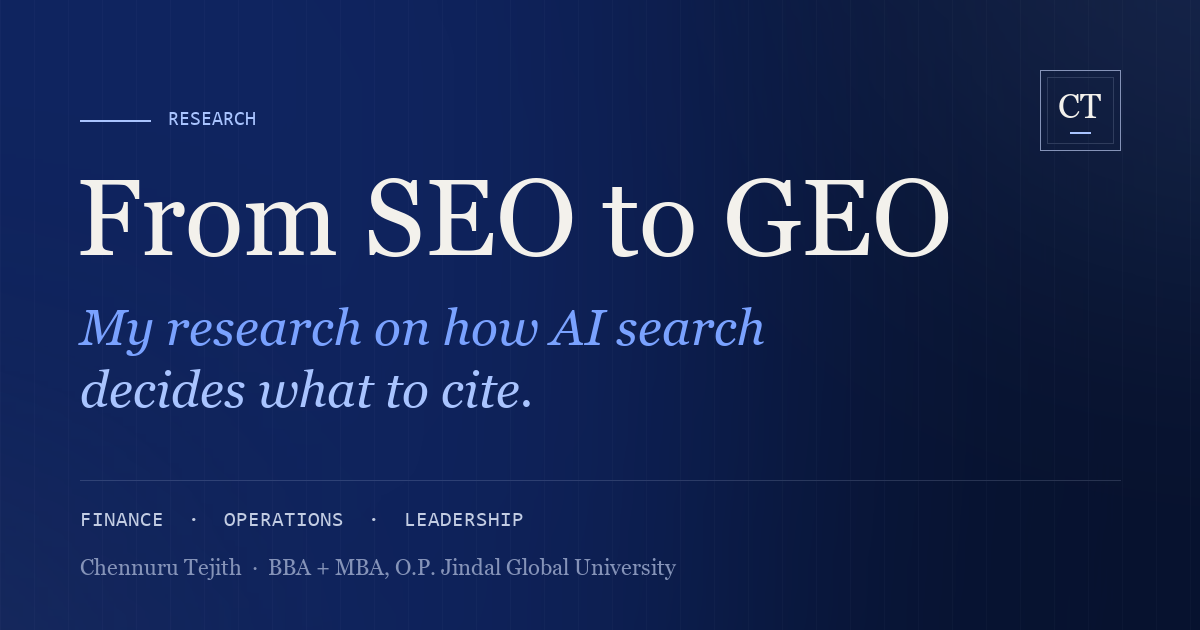
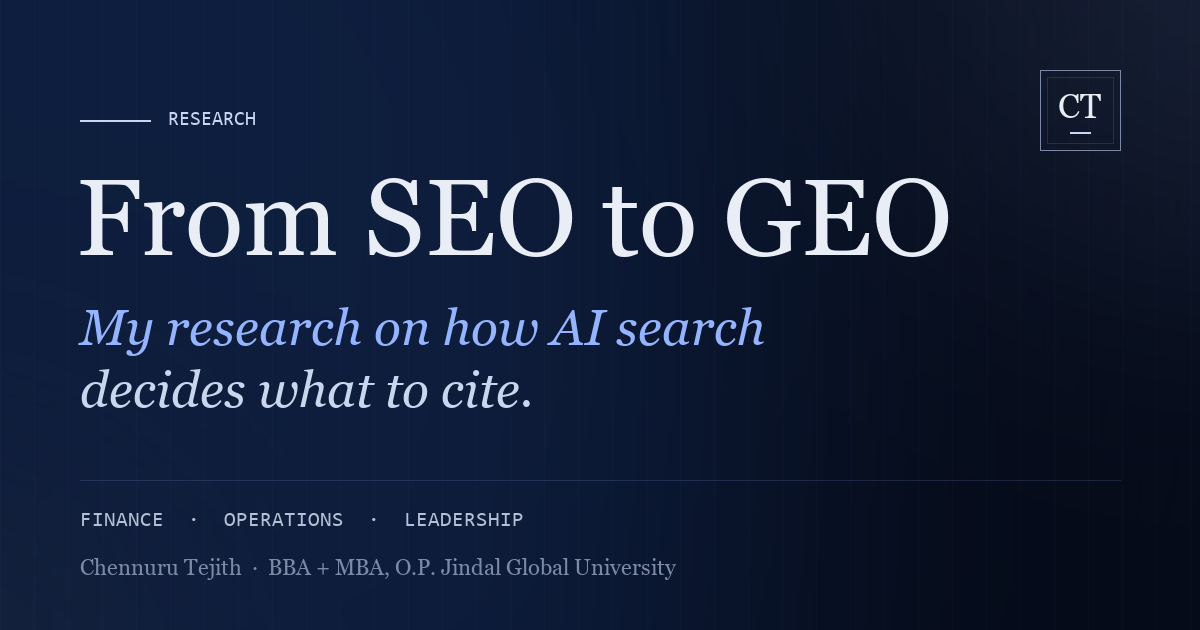
Deep midnight navy palette from dark-theme research: desaturated navy base, lighter navy surfaces for depth, off-white text, soft cornflower accent, saturated blue only on main buttons; all text passes WCAG AA

diff --git a/css/style.css b/css/style.css
@@ -7,29 +7,29 @@
 /* Sapphire · royal blue · ice · ivory */
 :root,
 [data-theme="dark"] {
-  --bg: #071331;
-  --bg-1: #0b1a40;
-  --bg-2: #102352;
-  --surface: #0b1a40;
-  --ink: #f3f1ec;
-  --ink-2: #c3cde3;
-  --ink-3: #8e9cc0;
-  --ink-4: #8593b8;
-  --muted: #8e9cc0;
-  --acc: #7aa2ff;
-  --acc-hi: #b4cbff;
-  --acc-dim: rgba(122, 162, 255, 0.1);
-  --clay: #a9c4ff;
-  --ok: #7fd8ea;
+  --bg: #050b1a;
+  --bg-1: #0a1328;
+  --bg-2: #0f1b36;
+  --surface: #0a1328;
+  --ink: #e9edf5;
+  --ink-2: #b6c0d4;
+  --ink-3: #8693ad;
+  --ink-4: #7d8aa6;
+  --muted: #8693ad;
+  --acc: #94b4ff;
+  --acc-hi: #c2d4ff;
+  --acc-dim: rgba(148, 180, 255, 0.1);
+  --clay: #c9d6ee;
+  --ok: #86d4e6;
   --ok-l: rgba(127, 216, 234, 0.1);
-  --line: rgba(214, 226, 255, 0.09);
-  --line-2: rgba(214, 226, 255, 0.17);
-  --line-3: rgba(214, 226, 255, 0.32);
-  --btn: #f3f1ec;
-  --btn-ink: #071331;
-  --land: #0d1d47;
-  --dotc: rgba(214, 226, 255, 0.26);
-  --stripe: rgba(214, 226, 255, 0.022);
+  --line: rgba(148, 176, 245, 0.09);
+  --line-2: rgba(148, 176, 245, 0.17);
+  --line-3: rgba(148, 176, 245, 0.32);
+  --btn: #e9edf5;
+  --btn-ink: #050b1a;
+  --land: #0c1730;
+  --dotc: rgba(148, 176, 245, 0.26);
+  --stripe: rgba(148, 176, 245, 0.022);
   --grain: 0.06;
   --shadow: 0 30px 60px -30px rgba(0, 0, 0, 0.75);
   /* legacy names used by scripts/markup */
@@ -742,12 +742,12 @@ body.resume-mode .hire { display: none !important; }
 .share-scrim { position: absolute; inset: 0; background: color-mix(in srgb, var(--bg) 75%, transparent); backdrop-filter: blur(8px); -webkit-backdrop-filter: blur(8px); animation: fade 0.4s; }
 .share-card { position: relative; width: min(440px, 100%); animation: panelIn 0.6s cubic-bezier(.16, 1, .3, 1); }
 .share-x { position: absolute; top: -52px; right: 0; }
-.sc { padding: 34px 32px; background: #071331; color: #f3f1ec; border: 1px solid rgba(214, 226, 255, 0.2); }
+.sc { padding: 34px 32px; background: #050b1a; color: #e9edf5; border: 1px solid rgba(148, 176, 245, 0.2); }
 .sc .logo-svg { width: 40px; height: 40px; color: #f1ece3; }
 .sc h3 { font: 400 40px/1 "Libre Caslon Display", "Times New Roman", serif; margin: 22px 0 8px; letter-spacing: 0; }
-.sc p { margin: 0; font: 400 10px "Geist Mono", monospace; letter-spacing: 0.18em; text-transform: uppercase; color: #8e9cc0; }
-.sc-row { display: grid; grid-template-columns: 1fr auto; gap: 20px; align-items: end; margin-top: 28px; padding-top: 22px; border-top: 1px solid rgba(214, 226, 255, 0.16); }
-.sc-row span { font-size: 13px; color: #c3cde3; line-height: 1.6; }
+.sc p { margin: 0; font: 400 10px "Geist Mono", monospace; letter-spacing: 0.18em; text-transform: uppercase; color: #8693ad; }
+.sc-row { display: grid; grid-template-columns: 1fr auto; gap: 20px; align-items: end; margin-top: 28px; padding-top: 22px; border-top: 1px solid rgba(148, 176, 245, 0.16); }
+.sc-row span { font-size: 13px; color: #b6c0d4; line-height: 1.6; }
 .sc-qr { width: 112px; height: 112px; background: #f1ece3; padding: 8px; }
 .sc-qr svg { width: 100%; height: 100%; display: block; }
 .share-actions { display: flex; flex-wrap: wrap; gap: 8px; margin-top: 14px; justify-content: center; }
@@ -816,7 +816,7 @@ body { background-color: var(--bg); }
 .crest-xl > span { font-size: 62px; margin-top: -10px; }
 .crest-xl::after { bottom: 26px; width: 34px; margin-left: -17px; height: 2px; }
 .logo .crest { margin-right: 4px; }
-.sc .crest { width: 52px; height: 52px; border-color: rgba(214, 226, 255, 0.45); }
+.sc .crest { width: 52px; height: 52px; border-color: rgba(148, 176, 245, 0.45); }
 .sc .crest > span { color: #f1ece3; font-size: 22px; }
 
 /* ink reveal on the name */
@@ -1052,7 +1052,7 @@ body { background-color: var(--bg); }
    intro, reading options
    ============================================================ */
 #story, #resume { zoom: var(--zoom, 1); }
-[data-contrast="high"] { --ink-2: #ece7de; --ink-3: #d6d0c6; --ink-4: #c4beb4; --line: rgba(214, 226, 255, 0.22); --line-2: rgba(214, 226, 255, 0.36); --line-3: rgba(214, 226, 255, 0.6); }
+[data-contrast="high"] { --ink-2: #ece7de; --ink-3: #d6d0c6; --ink-4: #c4beb4; --line: rgba(148, 176, 245, 0.22); --line-2: rgba(148, 176, 245, 0.36); --line-3: rgba(148, 176, 245, 0.6); }
 [data-theme="light"][data-contrast="high"] { --ink-2: #0a1a44; --ink-3: #2e2a24; --ink-4: #3a352d; --line: rgba(10, 26, 68, 0.24); --line-2: rgba(10, 26, 68, 0.4); --line-3: rgba(10, 26, 68, 0.65); }
 
 /* reading options */
@@ -1354,24 +1354,39 @@ body.touring .foot { padding-bottom: 150px; }
 .scrub .prog { margin-top: 34px; }
 
 /* ============================================================
-   Round 14: sapphire blue
+   Round 15: deep midnight navy
+   Dark-theme rules applied: a very dark desaturated base (not black),
+   depth from lighter surfaces, soft accent tones for text, and the
+   saturated brand blue kept for the main action only.
    ============================================================ */
-/* layered blue light: royal glow top right, deep indigo low left, sapphire pool in the middle */
+:root, [data-theme="dark"] {
+  --line: rgba(148, 176, 245, 0.10);
+  --line-2: rgba(148, 176, 245, 0.18);
+  --line-3: rgba(148, 176, 245, 0.32);
+  --dotc: rgba(148, 176, 245, 0.30);
+  --stripe: rgba(148, 176, 245, 0.022);
+  --brand: #3563e9;
+}
+[data-theme="light"] { --brand: #1d47c9; }
+/* quiet navy light, low saturation, so the page reads deep rather than bright */
 .backdrop { background:
-    radial-gradient(1100px 820px at 92% -14%, rgba(70, 120, 255, 0.22), transparent 62%),
-    radial-gradient(900px 700px at -12% 108%, rgba(64, 52, 190, 0.20), transparent 60%),
-    radial-gradient(1300px 900px at 35% 45%, rgba(26, 58, 156, 0.30), transparent 70%),
+    radial-gradient(1100px 800px at 90% -12%, rgba(53, 99, 233, 0.13), transparent 62%),
+    radial-gradient(900px 700px at -10% 108%, rgba(20, 43, 87, 0.55), transparent 62%),
+    radial-gradient(1300px 900px at 40% 40%, rgba(20, 43, 87, 0.35), transparent 72%),
     repeating-linear-gradient(90deg, var(--stripe) 0 1px, transparent 1px 34px),
-    var(--bg); }
+    var(--bg);
+  box-shadow: inset 0 0 300px rgba(0, 0, 0, 0.55); }
 [data-theme="light"] .backdrop { background:
-    radial-gradient(1100px 820px at 92% -14%, rgba(29, 71, 201, 0.10), transparent 62%),
-    radial-gradient(900px 700px at -12% 108%, rgba(64, 52, 190, 0.06), transparent 60%),
+    radial-gradient(1100px 800px at 90% -12%, rgba(29, 71, 201, 0.08), transparent 62%),
     repeating-linear-gradient(90deg, var(--stripe) 0 1px, transparent 1px 34px),
-    var(--bg); }
-/* the main call to action becomes solid royal blue */
-.btn-primary { background: linear-gradient(180deg, #4f7dff, #2f5fe8); color: #fff; box-shadow: 0 10px 30px -12px rgba(47, 95, 232, 0.7); }
-.btn-primary:hover { background: linear-gradient(180deg, #6690ff, #3b6bf0); color: #fff; }
-[data-theme="light"] .btn-primary { background: linear-gradient(180deg, #2a56d8, #1a3fb4); }
+    var(--bg); box-shadow: none; }
+/* the one saturated blue: the main call to action */
+.btn-primary { background: var(--brand); color: #fff; box-shadow: 0 10px 28px -14px rgba(53, 99, 233, 0.6); }
+.btn-primary:hover { background: #4a76f0; color: #fff; }
+[data-theme="light"] .btn-primary:hover { background: #2a56d8; }
 .hero h1.name .dot-c, .cta-card h2 .dot-c { color: var(--acc); }
 .kicker { color: var(--acc); }
-::selection { background: #4f7dff; color: #fff; }
+::selection { background: var(--brand); color: #fff; }
+/* raised surfaces are lighter navy, not shadows */
+.chat, .recon, .pit, .refreq, .gb-form, .proof.proof, .feat, .read-pop, .src-pop, .tour, .cite-card { background-color: var(--bg-1); }
+.bubble.ai, .slot:hover { background-color: var(--bg-2); }

diff --git a/profile.html b/profile.html
@@ -13,13 +13,13 @@
 <script type="application/ld+json">{"@context":"https://schema.org","@graph":[{"@type":"ProfilePage","name":"Chennuru Tejith, Portfolio","dateModified":"2026-10-10","mainEntity":{"@id":"#person"}},{"@type":"Person","@id":"#person","name":"Chennuru Tejith","alternateName":"Tejith Chennuru","description":"Chennuru Tejith is an Indian business student pursuing an integrated BBA (Hons.) + MBA at O.P. Jindal Global University (2024 to 2029, CGPA 7.9/8), from Hyderabad, with internship experience in operations at Round Table India, project management at Dr. Reddy's Laboratories Ltd. and finance at Ion Exchange India Ltd.","jobTitle":"Business Strategist in Training","image":"assets/crest-512.png","homeLocation":{"@type":"Place","name":"Hyderabad, Telangana, India"},"alumniOf":{"@type":"CollegeOrUniversity","name":"O.P. Jindal Global University","address":"Sonipat, Haryana, India"},"knowsLanguage":["English","Telugu","Hindi","French"],"knowsAbout":["Generative Engine Optimization","Financial Analysis","Cost Analysis","Budgeting","Bookkeeping","Financial Reporting","Data Interpretation","On-ground Monitoring","Budget Tracking","Sponsor Reporting","Vendor Verification","Cross-functional Coordination","Leadership","Institutional Governance","Policy Deliberation","Event Programming","Mentorship","Strategic Communication","Stakeholder Management","Partnership Development"],"hasCredential":[{"@type":"EducationalOccupationalCredential","name":"Excel Skills for Business: Intermediate I","recognizedBy":{"@type":"Organization","name":"Coursera · Macquarie University"}}],"award":["Batch Rank 3 and Certificate of Appreciation for Peer Support & Voluntary Contribution, JGU University Day. (2026)","Best Leader, Best All-Rounder and Rank 2 in IBM Batch, JGU University Day. (2025)","Certificate of Appreciation for volunteer leadership, JGU Alumni Day. (2025)","Letter of Appreciation for Exemplary Academic Performance. (2024)","Letter of Appreciation for the inauguration of India's First Constitution Museum & the National Convention on the Constitution of India. (2024)"],"hasOccupation":[{"@type":"Occupation","name":"Operations Intern","description":"Round Table India, Jun 2026 to Jul 2026 · Hyderabad"},{"@type":"Occupation","name":"Project Management Intern","description":"Dr. Reddy's Laboratories Ltd., Jun 2025 to Jul 2025 · Hyderabad"},{"@type":"Occupation","name":"Finance Intern","description":"Ion Exchange India Ltd., Dec 2024 to Jan 2025 · Hyderabad"}],"sameAs":["https://www.linkedin.com/in/chennuru-tejith","https://github.com/chennuru-tejith"]},{"@type":"FAQPage","mainEntity":[{"@type":"Question","name":"Can you lead people?","acceptedAnswer":{"@type":"Answer","text":"Yes. I directed programming for a 200+ member entrepreneurship club, I lead external outreach for the marketing club, and I was elected to a university committee."}},{"@type":"Question","name":"Why business and technology together?","acceptedAnswer":{"@type":"Answer","text":"I study business, but I like building the tools myself: a live outreach platform, AI-chat utilities and a stock-screening suite, all on my GitHub."}},{"@type":"Question","name":"What are you looking for?","acceptedAnswer":{"@type":"Answer","text":"An internship in finance, operations, consulting or marketing, in December to January or June to July, where I can own a real piece of work and be measured on the result."}}]}]}</script>
 <style>
 :root { color-scheme: dark; }
-body { margin: 0; background: #071331; color: #f3f1ec; font: 17px/1.7 "Libre Caslon Text", "Times New Roman", serif; }
+body { margin: 0; background: #050b1a; color: #e9edf5; font: 17px/1.7 "Libre Caslon Text", "Times New Roman", serif; }
 main { max-width: 760px; margin: 0 auto; padding: 64px 24px 80px; }
 h1 { font: 400 56px/1 "Libre Caslon Display", "Times New Roman", serif; margin: 0 0 18px; }
-h2 { font: 400 28px/1.15 "Libre Caslon Display", "Times New Roman", serif; margin: 44px 0 12px; padding-top: 22px; border-top: 1px solid rgba(214, 226, 255,.16); }
+h2 { font: 400 28px/1.15 "Libre Caslon Display", "Times New Roman", serif; margin: 44px 0 12px; padding-top: 22px; border-top: 1px solid rgba(148, 176, 245,.16); }
 h3 { font-size: 18px; margin: 18px 0 4px; }
-p, li { color: #c3cde3; } a { color: #7aa2ff; }
-.meta { font-size: 13px; color: #8e9cc0; }
+p, li { color: #b6c0d4; } a { color: #94b4ff; }
+.meta { font-size: 13px; color: #8693ad; }
 @media (prefers-color-scheme: light) { body { background: #f3f6fc; color: #0a1a44; } p, li { color: #2c3d6b; } a { color: #1d47c9; } .meta { color: #4d5d88; } h2 { border-color: rgba(10, 26, 68,.15); } }
 </style>
 </head>

diff --git a/build.js b/build.js
@@ -85,13 +85,13 @@ ${base ? `<link rel="canonical" href="${esc(abs("profile.html"))}" />` : ""}
 ${jsonld}
 <style>
 :root { color-scheme: dark; }
-body { margin: 0; background: #071331; color: #f3f1ec; font: 17px/1.7 "Libre Caslon Text", "Times New Roman", serif; }
+body { margin: 0; background: #050b1a; color: #e9edf5; font: 17px/1.7 "Libre Caslon Text", "Times New Roman", serif; }
 main { max-width: 760px; margin: 0 auto; padding: 64px 24px 80px; }
 h1 { font: 400 56px/1 "Libre Caslon Display", "Times New Roman", serif; margin: 0 0 18px; }
-h2 { font: 400 28px/1.15 "Libre Caslon Display", "Times New Roman", serif; margin: 44px 0 12px; padding-top: 22px; border-top: 1px solid rgba(214, 226, 255,.16); }
+h2 { font: 400 28px/1.15 "Libre Caslon Display", "Times New Roman", serif; margin: 44px 0 12px; padding-top: 22px; border-top: 1px solid rgba(148, 176, 245,.16); }
 h3 { font-size: 18px; margin: 18px 0 4px; }
-p, li { color: #c3cde3; } a { color: #7aa2ff; }
-.meta { font-size: 13px; color: #8e9cc0; }
+p, li { color: #b6c0d4; } a { color: #94b4ff; }
+.meta { font-size: 13px; color: #8693ad; }
 @media (prefers-color-scheme: light) { body { background: #f3f6fc; color: #0a1a44; } p, li { color: #2c3d6b; } a { color: #1d47c9; } .meta { color: #4d5d88; } h2 { border-color: rgba(10, 26, 68,.15); } }
 </style>
 </head>
@@ -194,8 +194,8 @@ ${base ? `<link rel="canonical" href="${esc(abs("press.html"))}" />` : ""}
 <link rel="icon" type="image/png" href="assets/favicon-64.png" />
 <link href="https://fonts.googleapis.com/css2?family=Libre+Caslon+Display&family=Libre+Caslon+Text:ital@0;1&display=swap" rel="stylesheet" />
 ${pageStyle(profile).replace("</style>", `.kit { display: grid; grid-template-columns: 160px 1fr; gap: 24px; align-items: center; }
-.kit img { width: 160px; height: 160px; border: 1px solid rgba(214, 226, 255,.2); }
-blockquote, pre { margin: 0; padding: 16px 18px; border-left: 2px solid #a9c4ff; background: rgba(214, 226, 255,.04); white-space: pre-wrap; font: inherit; }
+.kit img { width: 160px; height: 160px; border: 1px solid rgba(148, 176, 245,.2); }
+blockquote, pre { margin: 0; padding: 16px 18px; border-left: 2px solid #c9d6ee; background: rgba(148, 176, 245,.04); white-space: pre-wrap; font: inherit; }
 @media (max-width: 560px) { .kit { grid-template-columns: 1fr; } }
 </style>`)}
 </head>
@@ -231,7 +231,7 @@ const SHARE = {
   about: ["About", "Where the work happened, a slider through the years, honours and documents."],
   contact: ["Contact", "Internships, projects, or a conversation. Replies within 48 hours."],
 };
-const stubCss = `body{margin:0;min-height:100vh;display:grid;place-items:center;background:#071331;color:#f3f1ec;font:17px/1.6 Georgia,"Times New Roman",serif}a{color:#7aa2ff}`;
+const stubCss = `body{margin:0;min-height:100vh;display:grid;place-items:center;background:#050b1a;color:#e9edf5;font:17px/1.6 Georgia,"Times New Roman",serif}a{color:#94b4ff}`;
 for (const [slug, [name, desc]] of Object.entries(SHARE)) {
   const title = `${name} | ${P.name}`;
   fs.writeFileSync(`${slug}.html`, `<!doctype html>
@@ -272,7 +272,7 @@ fs.writeFileSync("404.html", `<!doctype html>
 <link rel="icon" type="image/png" href="/assets/favicon-64.png" />
 <link href="https://fonts.googleapis.com/css2?family=Libre+Caslon+Display&family=Libre+Caslon+Text:ital@0;1&family=Geist+Mono&display=swap" rel="stylesheet" />
 <style>
-:root { --bg: #071331; --ink: #f3f1ec; --ink2: #c3cde3; --ink4: #8593b8; --acc: #7aa2ff; --clay: #a9c4ff; --line: rgba(214, 226, 255,.17); color-scheme: dark; }
+:root { --bg: #050b1a; --ink: #e9edf5; --ink2: #b6c0d4; --ink4: #7d8aa6; --acc: #94b4ff; --clay: #c9d6ee; --line: rgba(148, 176, 245,.17); color-scheme: dark; }
 @media (prefers-color-scheme: light) { :root { --bg: #f3f6fc; --ink: #0a1a44; --ink2: #2c3d6b; --ink4: #56668f; --acc: #1d47c9; --clay: #2f5fd0; --line: rgba(10, 26, 68,.18); color-scheme: light; } }
 * { box-sizing: border-box; }
 body { margin: 0; min-height: 100vh; display: grid; place-items: center; padding: 40px 20px; background: var(--bg); color: var(--ink); font: 17px/1.65 "Libre Caslon Text", "Times New Roman", serif; }

diff --git a/js/app.js b/js/app.js
@@ -30,7 +30,7 @@
     document.documentElement.dataset.theme = t;
     $("#themeBtn").innerHTML = I(t === "dark" ? "sun" : "moon", 17);
     $("#themeBtn").setAttribute("aria-label", t === "dark" ? "Switch to light mode" : "Switch to dark mode");
-    const tc = $('meta[name="theme-color"]'); if (tc) tc.content = t === "dark" ? "#071331" : "#f3f6fc";
+    const tc = $('meta[name="theme-color"]'); if (tc) tc.content = t === "dark" ? "#050b1a" : "#f3f6fc";
   }
 
   // ---------- views ----------
@@ -62,7 +62,7 @@
     return `<svg class="${cls}" viewBox="0 0 100 100" aria-hidden="true">
       <defs>
         <linearGradient id="${id}m" x1="0" y1="0" x2="1" y2="1"><stop offset="0" stop-color="#f4f7fd"/><stop offset=".45" stop-color="#b8c6e3"/><stop offset=".7" stop-color="#eef3fc"/><stop offset="1" stop-color="#8796bd"/></linearGradient>
-        <linearGradient id="${id}c" x1="0" y1="0" x2="1" y2="1"><stop offset="0" stop-color="${g.color}"/><stop offset="1" style="stop-color:color-mix(in srgb, ${g.color} 50%, #071331)"/></linearGradient>
+        <linearGradient id="${id}c" x1="0" y1="0" x2="1" y2="1"><stop offset="0" stop-color="${g.color}"/><stop offset="1" style="stop-color:color-mix(in srgb, ${g.color} 50%, #050b1a)"/></linearGradient>
         <linearGradient id="${id}h" x1="0" y1="0" x2="0" y2="1"><stop offset="0" stop-color="#fff" stop-opacity=".45"/><stop offset=".5" stop-color="#fff" stop-opacity="0"/></linearGradient>
       </defs>
       <polygon points="${hex(47)}" fill="url(#${id}m)"/>
@@ -671,17 +671,17 @@
   function saveCard(qr) {
     const W = 1080, H = 1350, c = document.createElement("canvas"); c.width = W; c.height = H;
     const x = c.getContext("2d");
-    x.fillStyle = "#071331"; x.fillRect(0, 0, W, H);
-    x.strokeStyle = "rgba(214, 226, 255,.22)"; x.strokeRect(40, 40, W - 80, H - 80);
+    x.fillStyle = "#050b1a"; x.fillRect(0, 0, W, H);
+    x.strokeStyle = "rgba(148, 176, 245,.22)"; x.strokeRect(40, 40, W - 80, H - 80);
     x.fillStyle = "#d69c77"; x.fillRect(100, 140, 90, 3);
     x.fillStyle = "#f1ece3"; x.font = "400 110px 'Instrument Serif', Georgia, serif"; x.fillText(D.profile.name.split(" ")[0], 96, 330); x.fillText(D.profile.name.split(" ").slice(1).join(" "), 96, 450);
-    x.fillStyle = "#7aa2ff"; x.font = "italic 400 52px 'Instrument Serif', Georgia, serif"; x.fillText("Finance · Operations · Leadership", 100, 560);
-    x.fillStyle = "#8e9cc0"; x.font = "400 30px 'Geist', sans-serif"; x.fillText("BBA + MBA, O.P. Jindal Global University", 100, 640); x.fillText(D.profile.email, 100, 690);
+    x.fillStyle = "#94b4ff"; x.font = "italic 400 52px 'Instrument Serif', Georgia, serif"; x.fillText("Finance · Operations · Leadership", 100, 560);
+    x.fillStyle = "#8693ad"; x.font = "400 30px 'Geist', sans-serif"; x.fillText("BBA + MBA, O.P. Jindal Global University", 100, 640); x.fillText(D.profile.email, 100, 690);
     const n = qr.getModuleCount(), size = 380, cell = size / n, ox = W - 100 - size, oy = H - 100 - size;
     x.fillStyle = "#f1ece3"; x.fillRect(ox - 20, oy - 20, size + 40, size + 40);
-    x.fillStyle = "#071331";
+    x.fillStyle = "#050b1a";
     for (let r = 0; r < n; r++) for (let k = 0; k < n; k++) if (qr.isDark(r, k)) x.fillRect(ox + k * cell, oy + r * cell, Math.ceil(cell), Math.ceil(cell));
-    x.fillStyle = "#8e9cc0"; x.font = "400 26px 'Geist Mono', monospace"; x.fillText("SCAN TO VIEW PORTFOLIO", 100, H - 110);
+    x.fillStyle = "#8693ad"; x.font = "400 26px 'Geist Mono', monospace"; x.fillText("SCAN TO VIEW PORTFOLIO", 100, H - 110);
     c.toBlob((b) => { const a = document.createElement("a"); a.href = URL.createObjectURL(b); a.download = "Chennuru-Tejith-card.png"; a.click(); setTimeout(() => URL.revokeObjectURL(a.href), 2000); }, "image/png");
   }
   function wireShare() {

diff --git a/index.html b/index.html
@@ -5,7 +5,7 @@
   <meta name="viewport" content="width=device-width, initial-scale=1, viewport-fit=cover" />
   <meta http-equiv="Content-Security-Policy" content="default-src 'self'; script-src 'self'; style-src 'self' 'unsafe-inline' https://fonts.googleapis.com; font-src https://fonts.gstatic.com; img-src 'self' data: blob: https://*.goatcounter.com; connect-src 'self' https://*.goatcounter.com; object-src 'none'; base-uri 'self'; form-action 'none'" />
   <meta name="referrer" content="strict-origin-when-cross-origin" />
-  <meta name="theme-color" content="#071331" />
+  <meta name="theme-color" content="#050b1a" />
   <title>Chennuru Tejith | Finance, Operations &amp; Leadership</title>
   <meta name="description" content="Chennuru Tejith is a BBA + MBA student at O.P. Jindal Global University (2024 to 2029) with internships in operations (Round Table India), project management (Dr. Reddy's) and finance (Ion Exchange)." />
   <meta name="author" content="Chennuru Tejith" />
@@ -24,8 +24,8 @@
   <link href="https://fonts.googleapis.com/css2?family=Libre+Caslon+Display&family=Libre+Caslon+Text:ital,wght@0,400;0,700;1,400&family=Instrument+Serif:ital@0;1&family=Mrs+Saint+Delafield&family=Geist+Mono:wght@400;500&display=swap" rel="stylesheet" />
   <link rel="icon" type="image/png" sizes="64x64" href="assets/favicon-64.png" />
   <link rel="apple-touch-icon" href="assets/apple-touch-icon.png" />
-  <link rel="stylesheet" href="css/style.css?v=220" />
-  <script src="js/boot.js?v=220"></script>
+  <link rel="stylesheet" href="css/style.css?v=230" />
+  <script src="js/boot.js?v=230"></script>
 </head>
 <body>
   <div class="intro" id="intro" aria-hidden="true">
@@ -510,9 +510,9 @@
 
   <div class="toast" id="toast" role="status" hidden></div>
 
-  <script src="js/data.js?v=220"></script>
-  <script src="js/icons.js?v=220"></script>
-  <script src="js/india.js?v=220"></script>
-  <script src="js/app.js?v=220"></script>
+  <script src="js/data.js?v=230"></script>
+  <script src="js/icons.js?v=230"></script>
+  <script src="js/india.js?v=230"></script>
+  <script src="js/app.js?v=230"></script>
 </body>
 </html>

diff --git a/press.html b/press.html
@@ -11,17 +11,17 @@
 <link href="https://fonts.googleapis.com/css2?family=Libre+Caslon+Display&family=Libre+Caslon+Text:ital@0;1&display=swap" rel="stylesheet" />
 <style>
 :root { color-scheme: dark; }
-body { margin: 0; background: #071331; color: #f3f1ec; font: 17px/1.7 "Libre Caslon Text", "Times New Roman", serif; }
+body { margin: 0; background: #050b1a; color: #e9edf5; font: 17px/1.7 "Libre Caslon Text", "Times New Roman", serif; }
 main { max-width: 760px; margin: 0 auto; padding: 64px 24px 80px; }
 h1 { font: 400 56px/1 "Libre Caslon Display", "Times New Roman", serif; margin: 0 0 18px; }
-h2 { font: 400 28px/1.15 "Libre Caslon Display", "Times New Roman", serif; margin: 44px 0 12px; padding-top: 22px; border-top: 1px solid rgba(214, 226, 255,.16); }
+h2 { font: 400 28px/1.15 "Libre Caslon Display", "Times New Roman", serif; margin: 44px 0 12px; padding-top: 22px; border-top: 1px solid rgba(148, 176, 245,.16); }
 h3 { font-size: 18px; margin: 18px 0 4px; }
-p, li { color: #c3cde3; } a { color: #7aa2ff; }
-.meta { font-size: 13px; color: #8e9cc0; }
+p, li { color: #b6c0d4; } a { color: #94b4ff; }
+.meta { font-size: 13px; color: #8693ad; }
 @media (prefers-color-scheme: light) { body { background: #f3f6fc; color: #0a1a44; } p, li { color: #2c3d6b; } a { color: #1d47c9; } .meta { color: #4d5d88; } h2 { border-color: rgba(10, 26, 68,.15); } }
 .kit { display: grid; grid-template-columns: 160px 1fr; gap: 24px; align-items: center; }
-.kit img { width: 160px; height: 160px; border: 1px solid rgba(214, 226, 255,.2); }
-blockquote, pre { margin: 0; padding: 16px 18px; border-left: 2px solid #a9c4ff; background: rgba(214, 226, 255,.04); white-space: pre-wrap; font: inherit; }
+.kit img { width: 160px; height: 160px; border: 1px solid rgba(148, 176, 245,.2); }
+blockquote, pre { margin: 0; padding: 16px 18px; border-left: 2px solid #c9d6ee; background: rgba(148, 176, 245,.04); white-space: pre-wrap; font: inherit; }
 @media (max-width: 560px) { .kit { grid-template-columns: 1fr; } }
 </style>
 </head>

diff --git a/404.html b/404.html
@@ -9,7 +9,7 @@
 <link rel="icon" type="image/png" href="/assets/favicon-64.png" />
 <link href="https://fonts.googleapis.com/css2?family=Libre+Caslon+Display&family=Libre+Caslon+Text:ital@0;1&family=Geist+Mono&display=swap" rel="stylesheet" />
 <style>
-:root { --bg: #071331; --ink: #f3f1ec; --ink2: #c3cde3; --ink4: #8593b8; --acc: #7aa2ff; --clay: #a9c4ff; --line: rgba(214, 226, 255,.17); color-scheme: dark; }
+:root { --bg: #050b1a; --ink: #e9edf5; --ink2: #b6c0d4; --ink4: #7d8aa6; --acc: #94b4ff; --clay: #c9d6ee; --line: rgba(148, 176, 245,.17); color-scheme: dark; }
 @media (prefers-color-scheme: light) { :root { --bg: #f3f6fc; --ink: #0a1a44; --ink2: #2c3d6b; --ink4: #56668f; --acc: #1d47c9; --clay: #2f5fd0; --line: rgba(10, 26, 68,.18); color-scheme: light; } }
 * { box-sizing: border-box; }
 body { margin: 0; min-height: 100vh; display: grid; place-items: center; padding: 40px 20px; background: var(--bg); color: var(--ink); font: 17px/1.65 "Libre Caslon Text", "Times New Roman", serif; }

diff --git a/research.html b/research.html
@@ -17,7 +17,7 @@
 <meta name="twitter:card" content="summary_large_image" />
 <meta name="twitter:image" content="assets/og-research.png" />
 <link rel="icon" type="image/png" href="assets/favicon-64.png" />
-<style>body{margin:0;min-height:100vh;display:grid;place-items:center;background:#071331;color:#f3f1ec;font:17px/1.6 Georgia,"Times New Roman",serif}a{color:#7aa2ff}</style>
+<style>body{margin:0;min-height:100vh;display:grid;place-items:center;background:#050b1a;color:#e9edf5;font:17px/1.6 Georgia,"Times New Roman",serif}a{color:#94b4ff}</style>
 </head>
 <body><p><a href="./#research">Continue to Research →</a></p></body>
 </html>

diff --git a/contact.html b/contact.html
@@ -17,7 +17,7 @@
 <meta name="twitter:card" content="summary_large_image" />
 <meta name="twitter:image" content="assets/og-contact.png" />
 <link rel="icon" type="image/png" href="assets/favicon-64.png" />
-<style>body{margin:0;min-height:100vh;display:grid;place-items:center;background:#071331;color:#f3f1ec;font:17px/1.6 Georgia,"Times New Roman",serif}a{color:#7aa2ff}</style>
+<style>body{margin:0;min-height:100vh;display:grid;place-items:center;background:#050b1a;color:#e9edf5;font:17px/1.6 Georgia,"Times New Roman",serif}a{color:#94b4ff}</style>
 </head>
 <body><p><a href="./#contact">Continue to Contact →</a></p></body>
 </html>

diff --git a/about.html b/about.html
@@ -17,7 +17,7 @@
 <meta name="twitter:card" content="summary_large_image" />
 <meta name="twitter:image" content="assets/og-about.png" />
 <link rel="icon" type="image/png" href="assets/favicon-64.png" />
-<style>body{margin:0;min-height:100vh;display:grid;place-items:center;background:#071331;color:#f3f1ec;font:17px/1.6 Georgia,"Times New Roman",serif}a{color:#7aa2ff}</style>
+<style>body{margin:0;min-height:100vh;display:grid;place-items:center;background:#050b1a;color:#e9edf5;font:17px/1.6 Georgia,"Times New Roman",serif}a{color:#94b4ff}</style>
 </head>
 <body><p><a href="./#about">Continue to About →</a></p></body>
 </html>

diff --git a/work.html b/work.html
@@ -17,7 +17,7 @@
 <meta name="twitter:card" content="summary_large_image" />
 <meta name="twitter:image" content="assets/og-work.png" />
 <link rel="icon" type="image/png" href="assets/favicon-64.png" />
-<style>body{margin:0;min-height:100vh;display:grid;place-items:center;background:#071331;color:#f3f1ec;font:17px/1.6 Georgia,"Times New Roman",serif}a{color:#7aa2ff}</style>
+<style>body{margin:0;min-height:100vh;display:grid;place-items:center;background:#050b1a;color:#e9edf5;font:17px/1.6 Georgia,"Times New Roman",serif}a{color:#94b4ff}</style>
 </head>
 <body><p><a href="./#work">Continue to Work →</a></p></body>
 </html>

diff --git a/tools/make-og.py b/tools/make-og.py
@@ -7,8 +7,8 @@ serif = lambda s: ImageFont.truetype(F + "georgia.ttf", s)
 italic = lambda s: ImageFont.truetype(F + "georgiai.ttf", s)
 mono = lambda s: ImageFont.truetype(F + "consola.ttf", s)
 
-BG, INK, INK2, INK3 = (7, 19, 49), (243, 241, 236), (195, 205, 227), (133, 147, 184)
-ACC, CLAY = (122, 162, 255), (169, 196, 255)
+BG, INK, INK2, INK3 = (5, 11, 26), (233, 237, 245), (182, 192, 212), (125, 138, 166)
+ACC, CLAY = (148, 180, 255), (201, 214, 238)
 
 PAGES = {
     "og": ("PORTFOLIO", "Chennuru Tejith", ["Loyalty works both ways.", "If you ask for it, be ready to give it."]),
@@ -29,13 +29,13 @@ for name, (kicker, title, lines) in PAGES.items():
     img = Image.new("RGBA", (1200, 630), BG + (255,))
     glow(img, (1150, -60), 420, ACC, 34)
     glow(img, (-80, 700), 380, CLAY, 26)
-    glow(img, (420, 300), 520, (26, 58, 156), 110)
+    glow(img, (420, 300), 520, (20, 43, 87), 150)
     ov = Image.new("RGBA", img.size, (0, 0, 0, 0))
     o = ImageDraw.Draw(ov)  # translucent strokes go on their own layer so they blend
     for x in range(0, 1200, 34):
-        o.line([(x, 0), (x, 630)], fill=(214, 226, 255, 6))
-    o.rectangle((1047, 77, 1113, 143), outline=(214, 226, 255, 40), width=1)
-    o.line([(80, 480), (1120, 480)], fill=(214, 226, 255, 40), width=1)
+        o.line([(x, 0), (x, 630)], fill=(148, 176, 245, 6))
+    o.rectangle((1047, 77, 1113, 143), outline=(148, 176, 245, 40), width=1)
+    o.line([(80, 480), (1120, 480)], fill=(148, 176, 245, 40), width=1)
     img.alpha_composite(ov)
     d = ImageDraw.Draw(img)
     # crest
